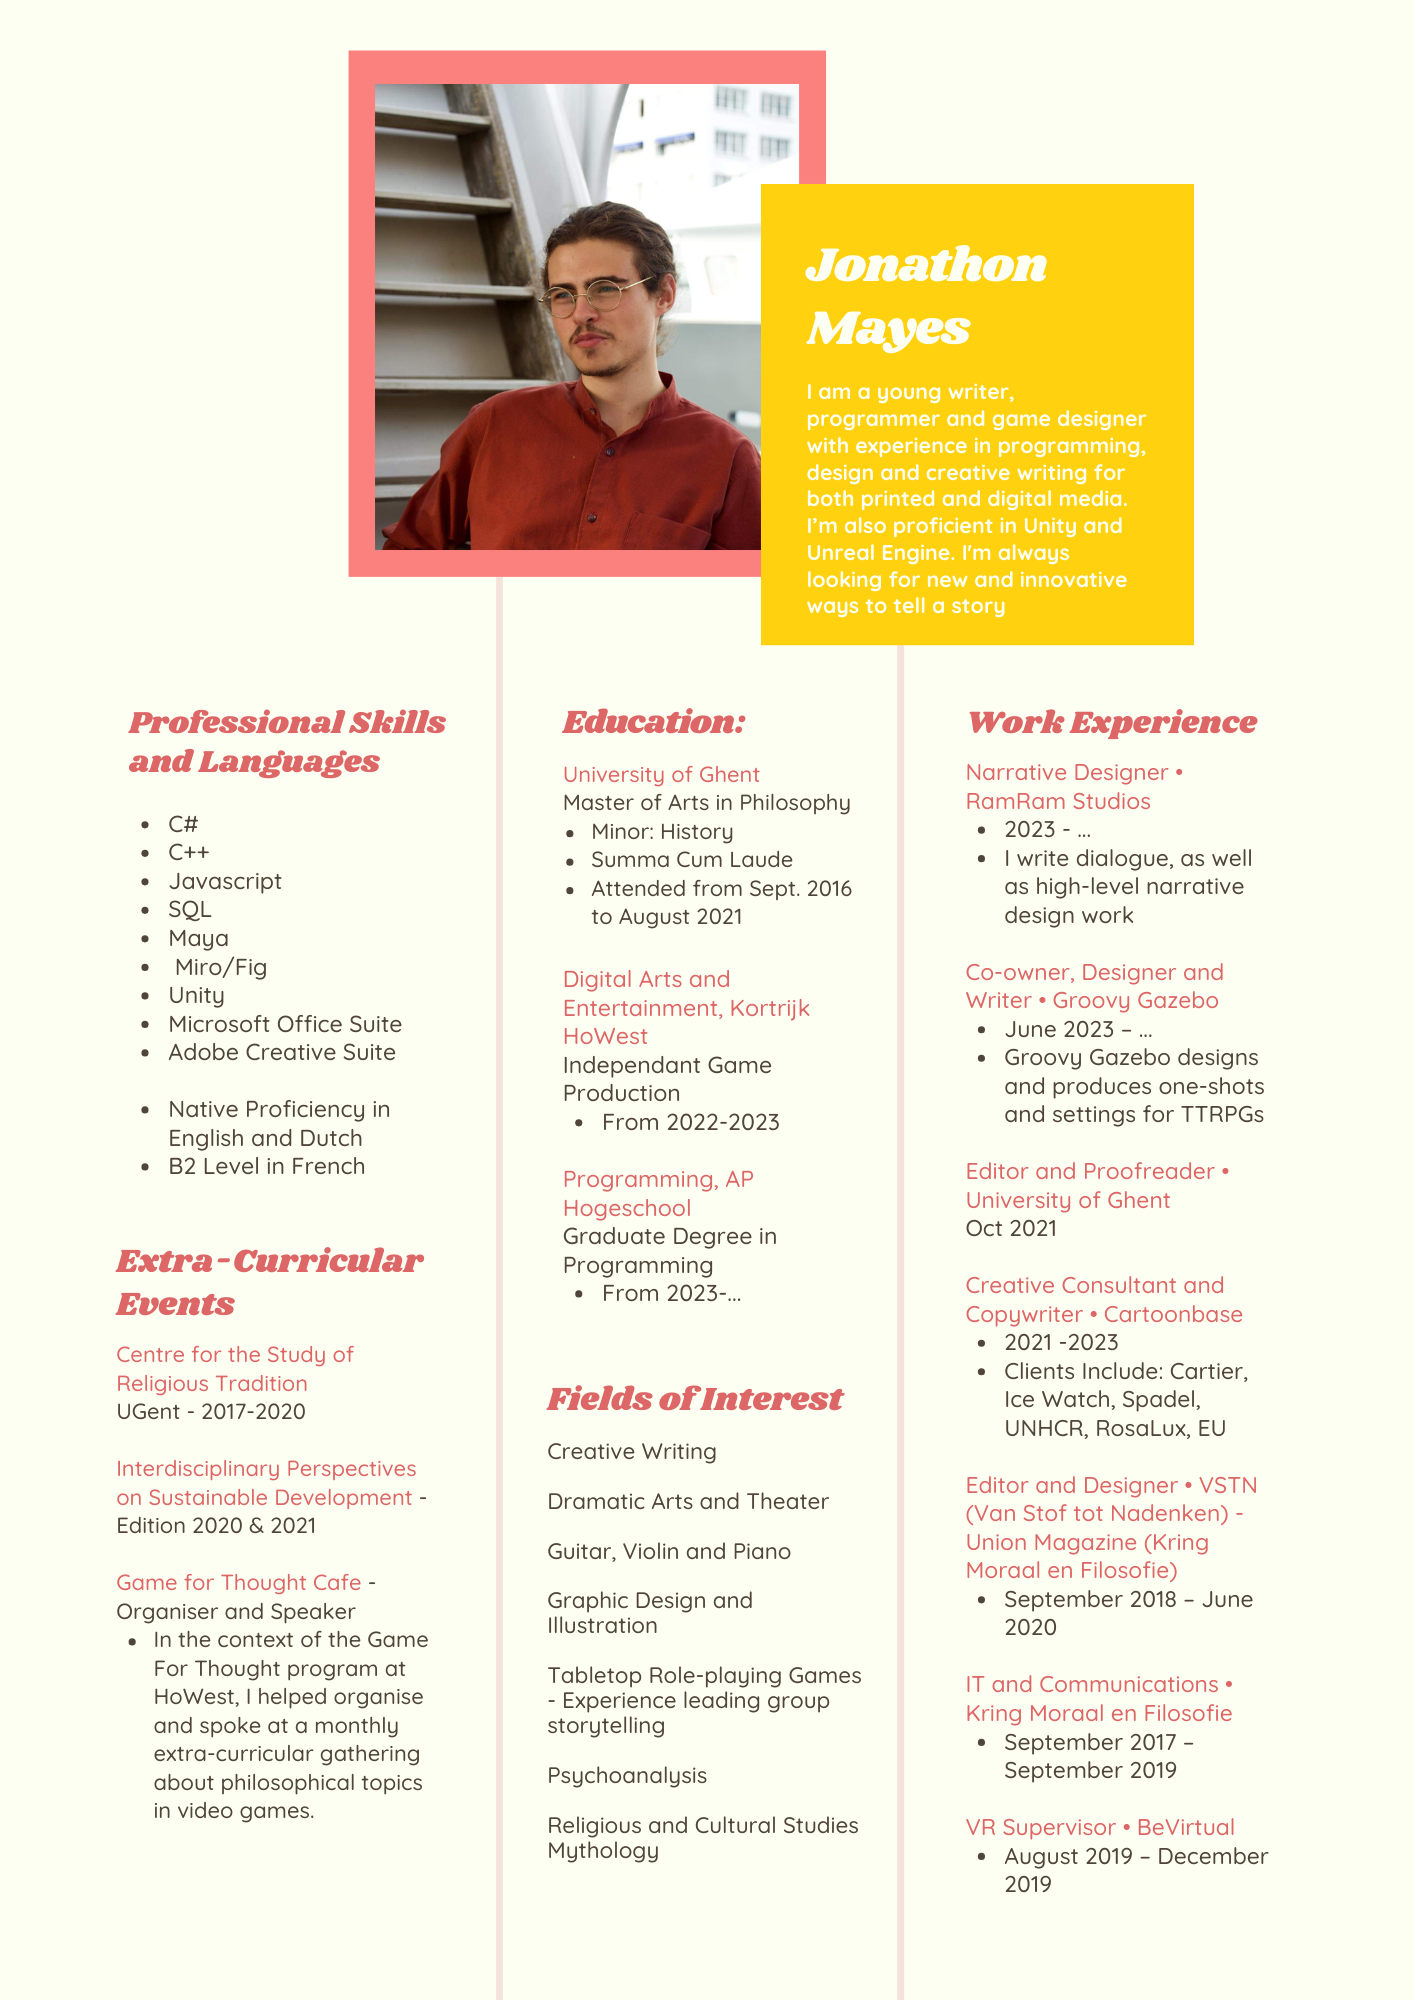
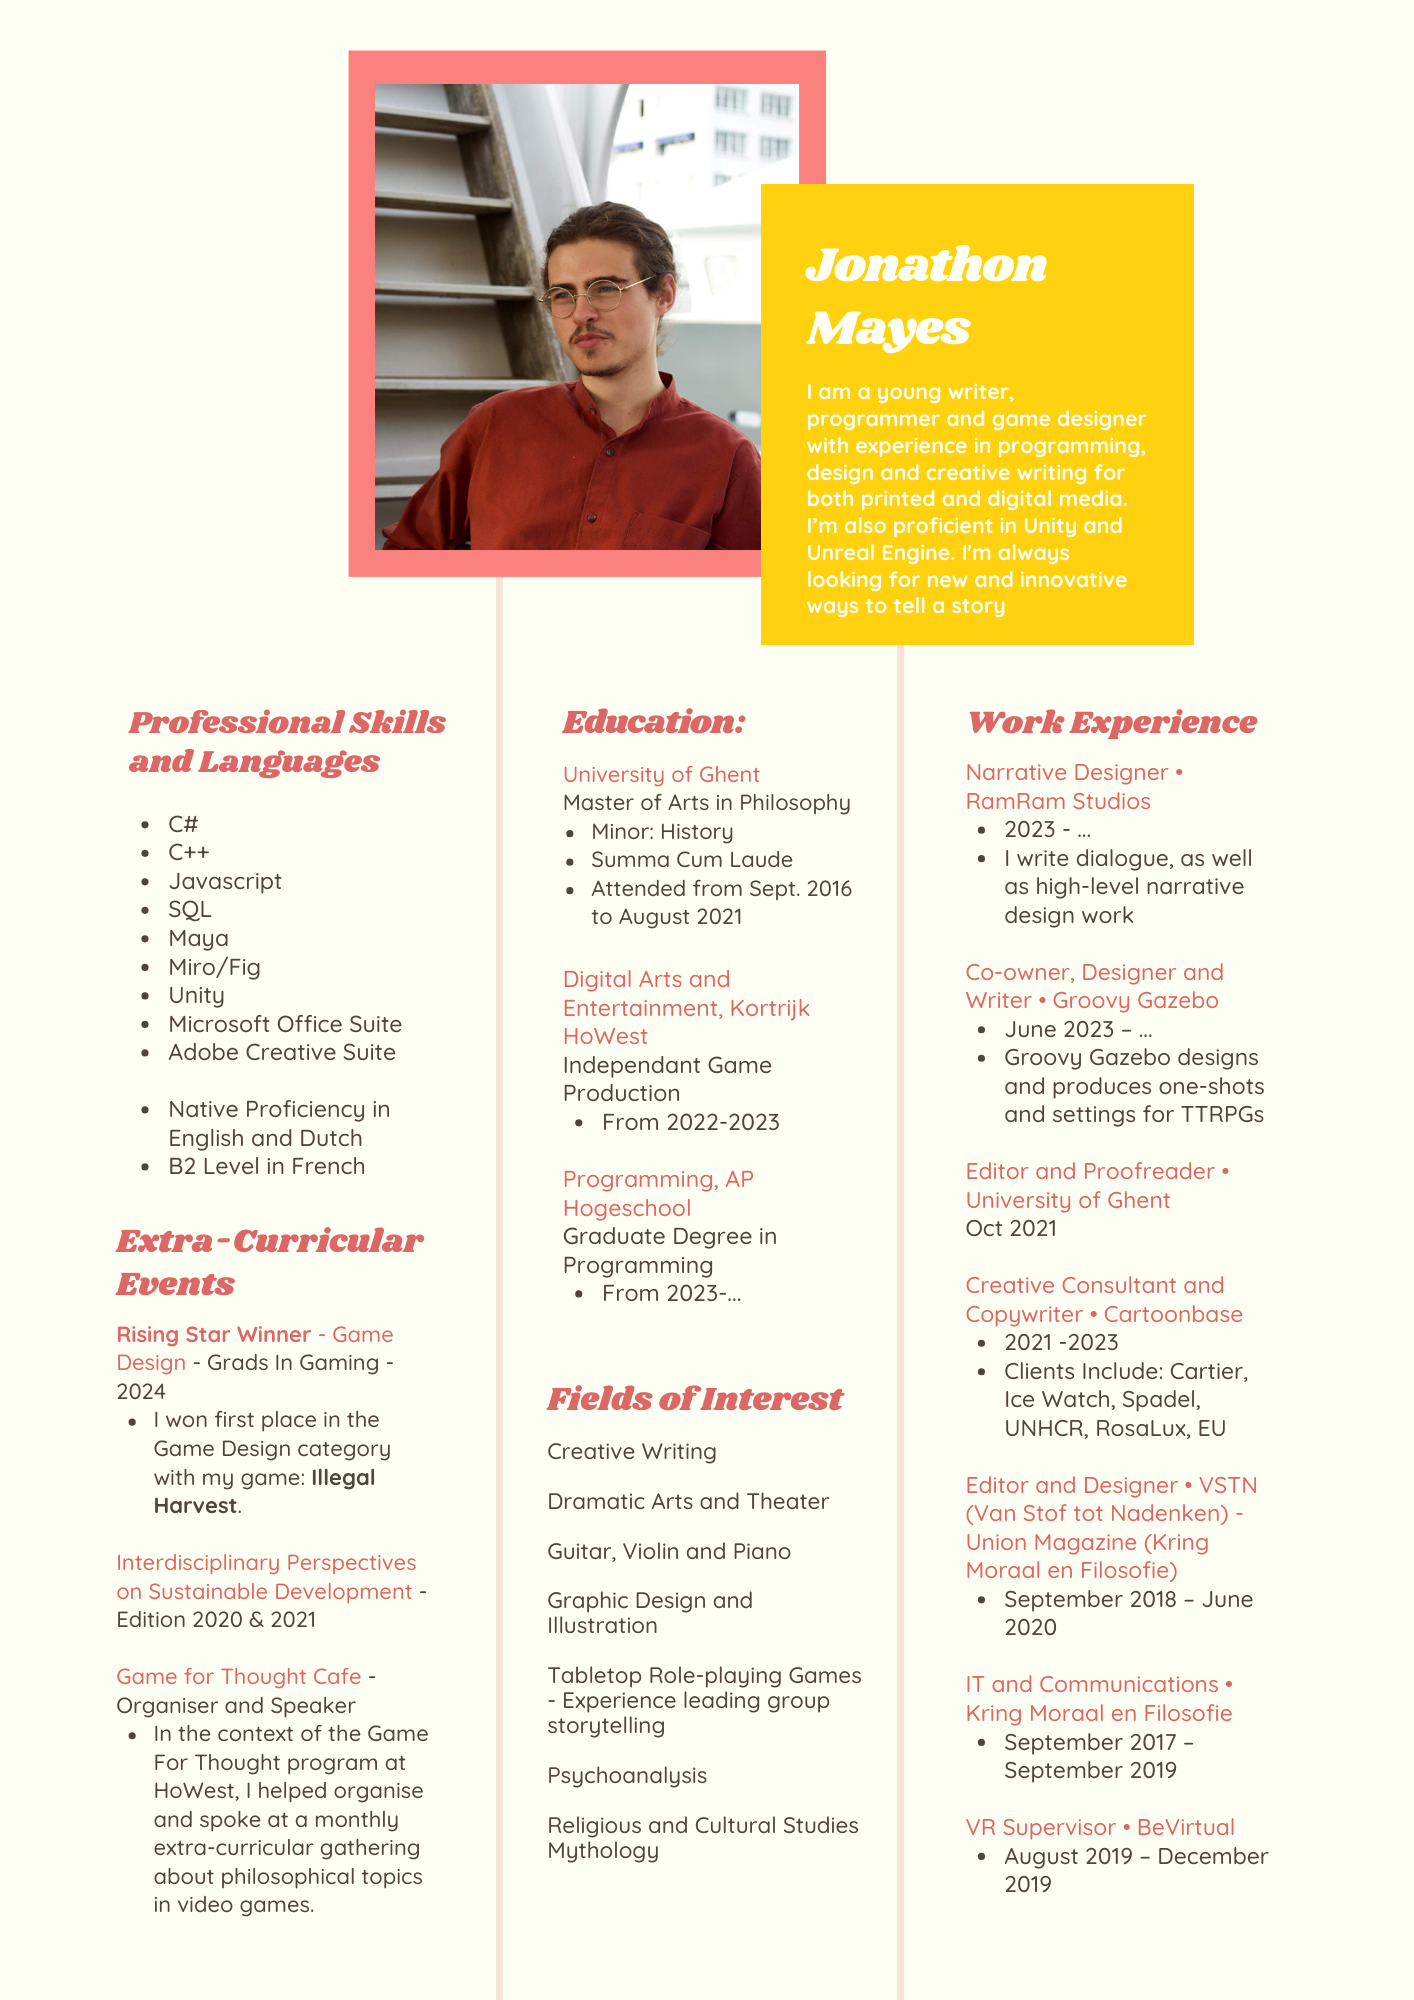
responsive on mobile and added awards, updated cv

Changed region(s): [[0.0622, 0.62, 0.3112, 0.961], [0.1245, 0.465, 0.1867, 0.496]]

diff --git a/css/style.css b/css/style.css
@@ -6,6 +6,11 @@
     --cream: rgb(254, 255, 243);
 }
 
+body,html{
+    box-sizing: border-box;
+    margin: 0;
+    padding: 0;
+}
 
 body{
    
@@ -447,16 +452,15 @@ background-image:  repeating-linear-gradient(0deg, #00000045, #0000005c 1.5px, #
  {
     display: flex;
     flex-direction: column;
-    justify-content: space-between;
-  
+   
  }
 
 
 
  .rows{
     display: flex;
-    gap: 2rem;
-    justify-content: space-between;
+    
+    
  }
  .rows *{
     align-self: center;
@@ -478,6 +482,8 @@ background-image:  repeating-linear-gradient(0deg, #00000045, #0000005c 1.5px, #
  @media (min-width:1240px) {
     
   
+  
+    
      #homepage-welcometext{
        
          max-width: 60%;
@@ -496,8 +502,23 @@ background-image:  repeating-linear-gradient(0deg, #00000045, #0000005c 1.5px, #
 
  @media (max-width:961px) {
     
+   
+
+
+
+
+    body{
+        overflow-x: hidden;
+        
+        
+    }
+
+    #homepage-highlightedworkfull *{
+        flex-direction: column;
+    }
+
    .squareTitle{
-    font-size: 2.5rem;
+    font-size: 3rem;
    }
 
     #picofme{
@@ -508,10 +529,145 @@ background-image:  repeating-linear-gradient(0deg, #00000045, #0000005c 1.5px, #
     #homepage-welcometext{
       
         max-width: 100%;
+        
+        margin: 0;
+        border-radius: 0px;
      
        
     }
 
+    #homepage-welcometext p{
+        margin: 0;
+        padding:0 0 2rem 0;
+    }
+
+    #namelogo{
+        font-size: 2rem;
+    }
+    .squareTitle{
+       font-size: 5vw;
+       margin: 0;
+       padding: 0.2rem;
+    }
+
+
+    nav{
+        padding: 0rem;
+    }
+    nav ul {
+        max-width: 0px;
+    }
+
+   
+
+    nav ul ul {
+        max-width: 10px;
+        justify-content: space-between;
+    }
+
+    nav ul ul a {
+        padding: 0.5rem;
+  
+
+    }
+
+    nav img{
+        display:  none;   
+    }
+
+    .socmedlinks a img{
+        max-width:150%;
+    }
+
+    #homepage-portfoliolinks{
+        display: grid;
+
+    }
+
+    #homepage-portfoliolinks h2{
+       font-size: 3rem;
+       padding: 0.5rem;
+       text-align: center;
+    }
+
+    footer p {
+        margin-bottom: 2rem;
+    }
+
+    #homepage-workinfobox
+    {
+       position: fixed;
+       text-align: center;
+       justify-content: center;
+       top:50%;
+       left: 50%;
+       background-color: var(--cream);
+       z-index: 100;
+       padding: 2rem;
+       width: 80%;
+       height: 80%;
+       transform: translate(-50%, -50%);
+       display: none;
+       border: var(--darkgrey);
+       border-style: solid;
+       border-width: 1rem;
+   
+       background-size: cover;
+       background-position: 50% 25%;
+       
+    }
+
+    #homepage-workinfobox-closebutton
+    {
+    
+       left: 80%;
+       top: -10%;
+    }
+
+    #homepage-workinfobox-imageorvideo iframe {
+       padding: 0;
+       margin: 0;
+       max-height: 200px;
+    }
+
+    .rows{
+        flex-direction: column;
+    }
+
+    .column{
+        padding: 0;
+        margin: 0;
+        width: 100;
+    }
+
+    .column .squareTitle{
+        margin: 0;
+       
+    }
+
+ 
+
+    #homepage-workinfobox-description {
+        margin: 0;
+        padding: 0;
+       
+    }
+
+    #homepage-highlightedwork article img {
+        transform: scale(150%);
+        margin: 1rem 0 3rem 0;
+      
+    }
+ #homepage-workinfobox h1, h3{
+    font-size: 1rem;
+ }
+
+ #homepage-workinfobox p{
+    font-size:0.9rem;
+    margin-bottom: -4rem;
+ }
+
+   
 
  }
 

diff --git a/index.html b/index.html
@@ -9,7 +9,8 @@
     <link rel="stylesheet" href="https://fonts.googleapis.com/css?family=Shadows+Into+Light">
     <link rel="stylesheet" href="https://fonts.googleapis.com/css?family=Lato">
     <script src="./javascript/workPreview.js" defer></script>
-    
+    <meta name="viewport" 
+    content="width=device-width">
 </head>
 <body>
 
@@ -72,7 +73,11 @@
                 <br><br>
                 
                 This is what connects all of my work, from  my game design to the stories that I write; the websites I design and my work in 2D and 3D art. I am, at all times, experimenting with and exploring the what, why and how of digital storytelling.</p>
-                <br><br>
+          
+
+                <p>More recently, I was Winner of Grads In Gaming's Rising Star 2024 - Game Design Category for my game: <b>Illegal Harvest</b></p>
+      
+          
             <a href="./cv.html"><button style="cursor: pointer;">Check Out My CV</button></a>
                 
 
@@ -92,10 +97,10 @@
                         <img src="./images/Supermarket.png" alt="illegalharvestcardimage">
                     </article>
 
-                </article>
+
                 <article id="bigmekcard">
                     <img src="./images/bigmek.webp"  alt="illegalharvestcardimage">
-                    </article>
+                </article>
            
                 <article id="30birdscard">
                     <img src="./images/30birds.jpg"  alt="illegalharvestcardimage">

diff --git a/javascript/workPreview.js b/javascript/workPreview.js
@@ -80,7 +80,7 @@ let illegalHarvest =
 {
     card: document.getElementById("illegalharvestcard"),
     title:"Illegal Harvest",
-    desc: "Illegal Harvest was created for the Grads in Gaming Rising Star Competition. In the space of a month, I was able to design, prototype, program and playtest this game design prototype. Additionally, I modelled all the characters (including the veggies). Other assets, such as the Truck and Police Boats were created by Ioanna Efthymiadou.",
+    desc: "My game Illegal Harvest was winner for the Grads in Gaming Rising Star Competition. In the space of a month, I was able to design, prototype, program and playtest this game design prototype. Additionally, I modelled all the characters (including the veggies). Other assets, such as the Truck and Police Boats were created by Ioanna Efthymiadou.",
     role: "Designer, Artist, Programmer",
     imageSRC:"./images/30birds.jpg",
     videoURL: "https://www.youtube.com/embed/4-WuU0gLYck?si=uwJeinu4I6SZN98C",
